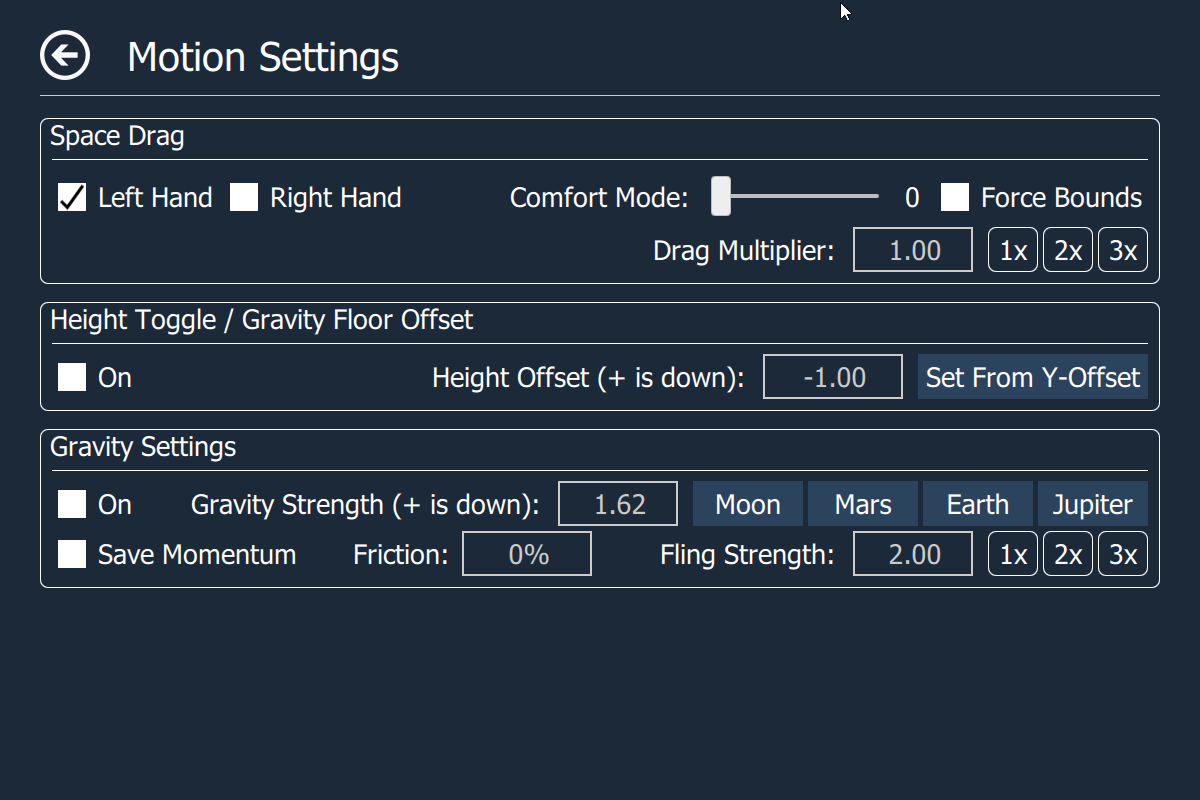
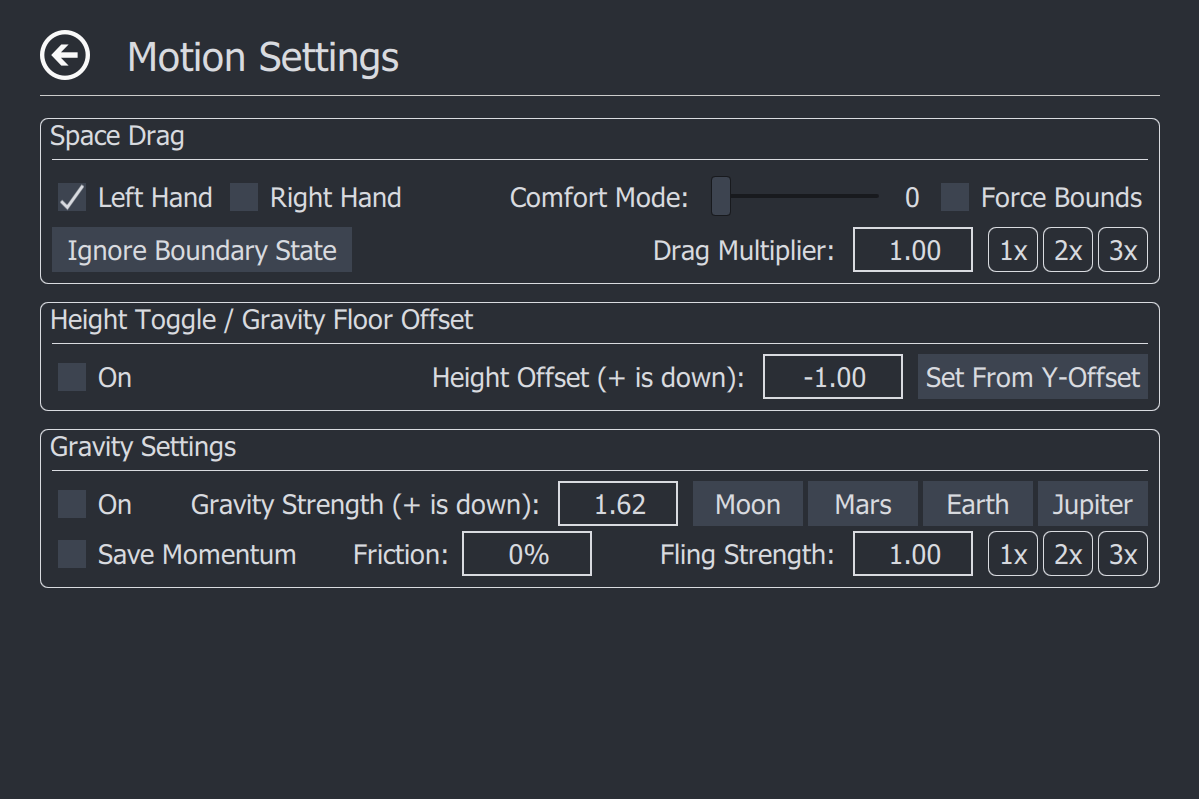
update documentation

diff --git a/Readme.md b/Readme.md
@@ -365,6 +365,20 @@ These version are not stable and this should be considered for advanced users on
   - **Camera for Bounds**: Your camera view will replace your vr view as you near/exit chaperone
   - **Camera for Dashboard**: You will have a small camera view attached to your controller when you have the dashboard active.
   - **Camera for Room View**: You will have a Tron/Shadow version of the room when double-clicking system button.
+- **Binds**
+  - **Enable Per-App**: Enables Per App Binding Feature
+  - **Application**: Application to set Per app Bindings
+    - **Common Overlay App Keys** 
+      - (default) [OVR Advanced Settings](https://store.steampowered.com/app/1009850/OVR_Advanced_Settings/) = steam.overlay.1009850
+      -  [OVR Toolkit](https://store.steampowered.com/app/1068820/OVR_Toolkit/) = steam.overlay.1068820
+      -  [XSOverlay](https://store.steampowered.com/app/1173510/XSOverlay/) = steam.overlay.1173510 
+      -  [Desktop +](https://store.steampowered.com/app/1494460/Desktop/) = steam.overlay.1494460
+      -  [fpsVR](https://store.steampowered.com/app/908520/fpsVR/) =  steam.overlay.908520
+      -  [LIV](https://store.steampowered.com/app/755540/LIV/) = steam.overlay.755540
+  - **Open Bindings**: another shortcut to the SteamVR Binding Menu
+  - **Save Current Binding of Selected App**:
+    - **For Current Game**: Saves your Current Binding of the selected game to be used on a per-app basis for this game.
+    - **As Default**: Saves your Current Binding of the selected game to be used if no other bindings are found when a new game loads.
 - **Restart SteamVR**: Restart SteamVR (May crash the Steam overlay when SteamVR Home is running when you restart. Therefore I advice that you close SteamVR Home before restarting).
 
 ## - SteamVR Pair Page
@@ -437,6 +451,7 @@ Allows users to temporarily move and rotate the center of the playspace. This al
   - **Left/Right Hand**: Toggles functionality (must be active in addition to binding via input system to work.)
   - **Comfort Mode**: Limits the rate at which your movement updates, reducing smoothness so that perceived motion starts to feel more like mini-teleports. Higher values reduce smoothness more.
   - **Force Bounds**: Forces the display of the chaperone bounds during Space Drag.
+  - **Ignore Boundary State**: Will for this session, ignroe the current state of the chaperone(boundary), this should improve compatibility with third party hmd's
   - **Drag Multiplier**: Adds a Multiplier to the distance of your drag.
 - **Height Toggle**: Toggle between zero and an offset for gravity floor height. If gravity is inactive the user is also moved to this offset. (Example: allows for quick switching between a seated and standing height.) Can be bound via SteamVr Input System.
   - **On**: Current toggle state, Binds directly modify this.
